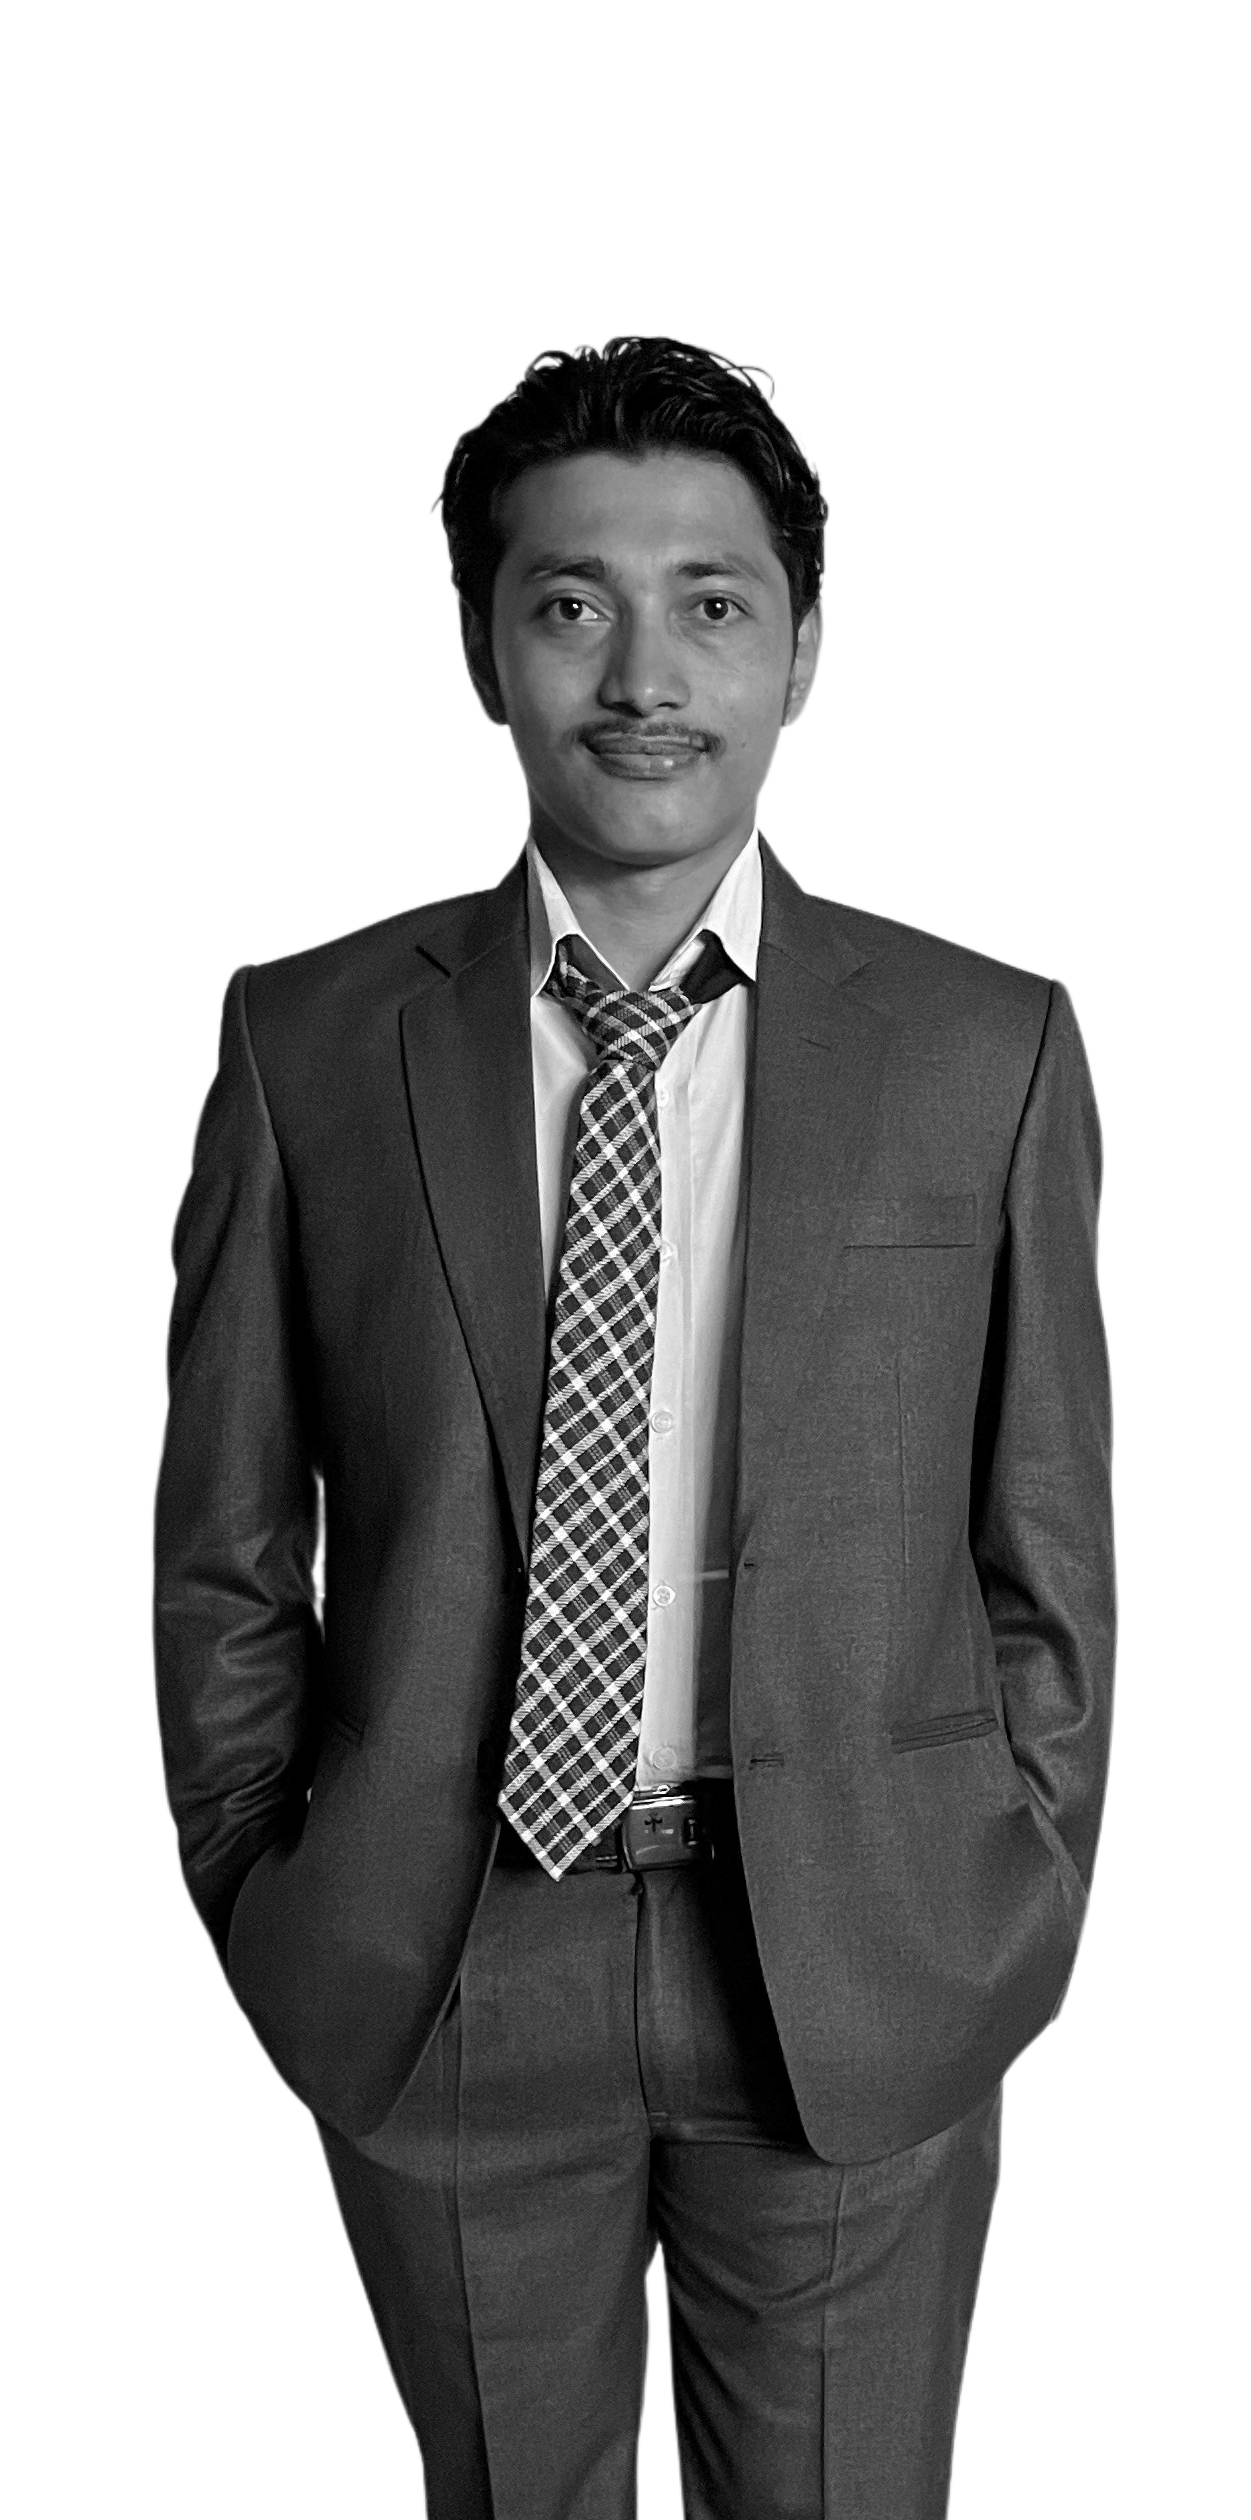
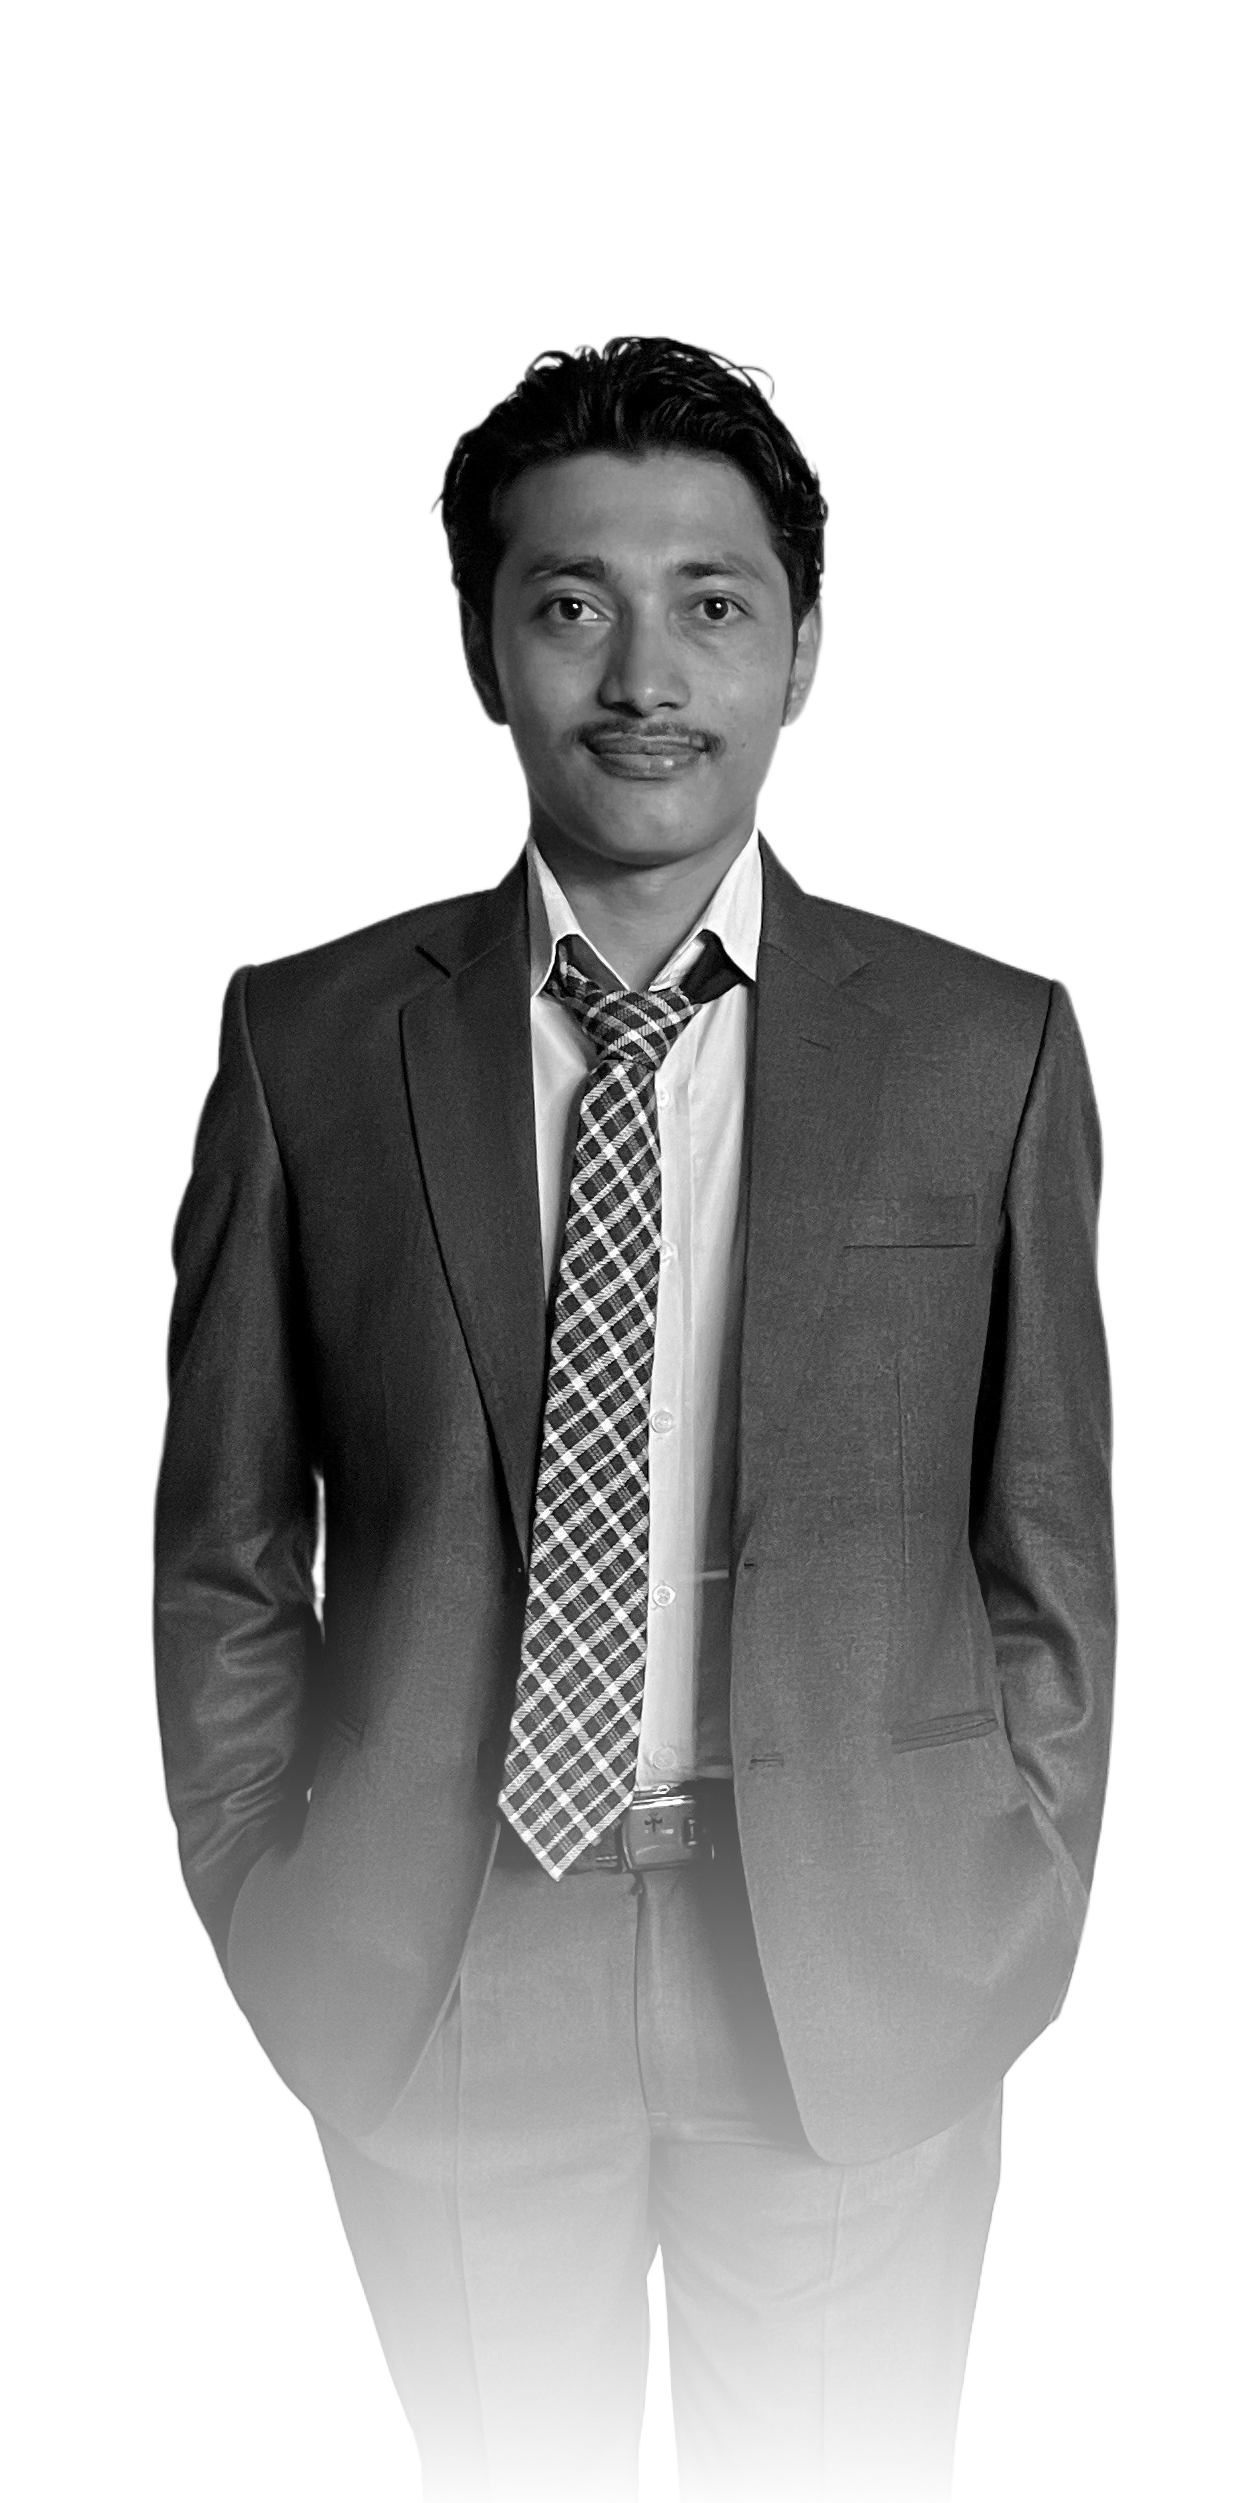
image update

diff --git a/style.css b/style.css
@@ -45,7 +45,7 @@ body {
 #header::after {
   content: "";
   position: absolute;
-  background: linear-gradient(
+   background: linear-gradient(
     0deg,
     rgb(0, 0, 0) 0%,
     rgba(255, 255, 255, 0) 60%
@@ -540,6 +540,7 @@ nav .fa-solid {
 @media only screen and (max-width: 750px) {
   #header {
     background-image: url("images/phone.png");
+    /* background: linear-gradient(to bottom, rgba(url('images/phone.png'), 0.0), rgba(url('images/phone.png'), 1.0)); */
     background-size: contain;
     /* height: 90vh; */
     background-position: center top;
